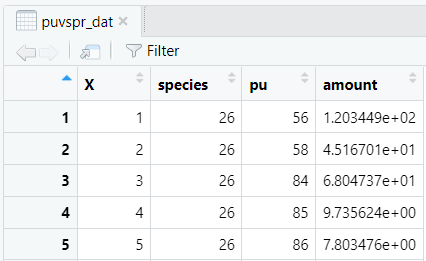
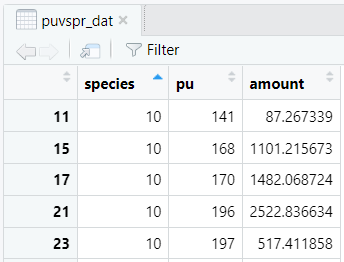
Updates to tutorials

diff --git a/docs/spatial_formulation_tutorial.md b/docs/spatial_formulation_tutorial.md
@@ -4,8 +4,6 @@ title: Tutorials
 permalink: /spatial_formulation
 ---
 
-<!-- Update template library from S3 with new target coverage chart !-->
-
 <style>
   .indentation {
     margin-left: 1rem;
@@ -50,7 +48,6 @@ d. When done, click <b>OK</b>.
 A new library has been created based on the selected template, and SyncroSim will have automatically opened and displayed it in the *Explorer* window. 
 
 <img align="center" style="padding: 13px" width="600" src="assets/images/screenshot8.png">
-<!-- When time allows, update so window shows fully (i.e., S icon and library name) !-->
 
 3\.	Double-click on the library name, **Spatial Formulation Example**, to open the library properties window. You may also right-click on the library name and select **Open** from the context menu.
 
@@ -86,8 +83,7 @@ Now, you will review the inputs for the **Initial problem** scenario, which sets
 
 10\.	Navigate to the **Pipeline** datasheet. Pipeline stages call on a transformer (*i.e.*, script) which takes the inputs from SyncroSim, runs a model, and returns the results to SyncroSim. Under the *Stage* column, note that a single pipeline stage is set, called *Base Prioritization*.
 
-<img align="center" style="padding: 13px" width="800" src="assets/images/screenshot14-2.png">
-<!-- Update this screenshot. It should show the Pipeline datasheet unher the Initial problem scenario properties, not the Definitions !-->
+<img align="center" style="padding: 13px" width="500" src="assets/images/screenshot14-2.png">
 
 11\. Navigate to the **Prioritizr** tab, and expand the **Base Prioritization > Data** nodes. 
 
@@ -184,12 +180,14 @@ Now, you will review the inputs for the **Initial problem** scenario, which sets
 The *Spatial Formulation Example* template library already contains the results for each scenario. Before exploring additional scenarios, you will view the main result for the **Initial problem** scenario. 
 
 1\. In the *Explorer* window, expand the **Initial Problem > Results** nodes to reveal the **Inital Problem** results scenario. This scenario contains the run results, timestamped, and a copy of all input parameters.
-<!-- Add screenshot !-->  
+
+<img align="center" style="padding: 13px" width="500" src="assets/images/screenshot21-3.png">
 
 2\. Collapse the scenario node by clicking on the downward facing arrow beside the scenario name.
 
 3\. Navigate to the **Maps** tab, and double click on the pre-configured **Solution** map. The *Solution* map shows in purple which planning units have been selected for prioritization given the input data and parameters. Although this solution helps meet the representation targets, it does not account for existing protected areas inside the study area.
-<!-- Add screenshot !-->
+
+<img align="center" style="padding: 13px" width="300" src="assets/images/screenshot21-4.png">
 
 <img align="center" style="padding: 13px" width="600" src="assets/images/screenshot21-2.png">
 
@@ -207,7 +205,7 @@ Now, you will review the additional scenarios and explore how they differ from t
 
 7\. Navigate to the **Prioritizr** tab, expand the **Base Prioritization > Data** node, and open the **Input Format** datasheet. Notice that this information cannot be edited (<i>i.e.</i>, greyed out) and the *"Inherit values from '[9] Initial Problem'"* checkbox in the bottom left corner is marked. This indicates that values within this datasheet are derived from the **Initial Problem** result scenario acting as a dependency.
 
-<img align="center" style="padding: 13px" width="400" src="assets/images/screenshot22-2.png">
+<img align="center" style="padding: 13px" width="500" src="assets/images/screenshot22-2.png">
 
 8\.  Navigate to the **Prioritizr** tab, expand the **Parameters > Advanced > Constraints** nodes, and open the **Locked In** datasheet to review the following inputs:
 
@@ -239,7 +237,7 @@ Yet, some places in the study area are not available for protection (*e.g.*, due
 
 13\.  Navigate to the **Prioritizr** tab, expand the **Base Prioritization > Data** nodes, and open the **Input Format** datasheet. Notice that this information cannot be edited (i.e., greyed out) and the *“Inherit values from ‘[10] Add locked in constraints’”* checkbox in the bottom left corner is marked. This indicates that values within this datasheet are derived from the **Add locked in constraints** result scenario acting as a dependency.
 
-<img align="center" style="padding: 13px" width="400" src="assets/images/screenshot24-2.png">
+<img align="center" style="padding: 13px" width="500" src="assets/images/screenshot24-2.png">
 
 14\.  Navigate to the **Prioritizr** tab, expand the **Parameters > Advanced > Constraints** nodes, and open the **Locked Out** datasheet to review the following inputs:
 
@@ -271,7 +269,7 @@ However, the planning units selected from the solution are fairly fragmented. Th
 
 19\.  Navigate to the **Prioritizr** tab, expand the **Base Prioritization > Data** nodes, and open the **Input Format** datasheet. Notice that this information cannot be edited (i.e., greyed out) and the *“Inherit values from ‘[11] Add locked in constraints’”* checkbox in the bottom left corner is marked. This indicates that values within this datasheet are derived from the **Add locked out constraints** result scenario acting as a dependency.
 
-<img align="center" style="padding: 13px" width="400" src="assets/images/screenshot26-2.png">
+<img align="center" style="padding: 13px" width="500" src="assets/images/screenshot26-2.png">
 
 20\.  Navigate to the **Prioritizr** tab, expand the **Parameters > Advanced > Penalties** nodes, and open the **Boundary** datasheet to review the following inputs:
 

diff --git a/docs/climate_refugia_prioritization_tutorial.md b/docs/climate_refugia_prioritization_tutorial.md
@@ -48,7 +48,6 @@ d. When done, click <b>OK</b>.
 A new library has been created based on the selected template, and SyncroSim will have automatically opened and displayed it in the *Explorer* window.
 
 <img align="center" style="padding: 13px" width="800" src="assets/images/screenshot55.png">
-<!-- When time allows, update to window shows fully (i.e., S icon and library name) !-->
 
 3\.	Double-click on the library name, **Climate Refugia Prioritization (Muskoka, Ontario)**, to open the library properties window. You may also right-click on the library name and select **Open** from the context menu.
 
@@ -208,12 +207,13 @@ The *Climate Refugia Prioritization (Muskoka, Ontario)* template library already
   b. Click on the <b>Solution</b> column to reorder the table's contents in decreasing order. <i>Solution</i> values equal to 1 represent the planning units that were selected by the solution.
 </div>
 
-<!-- Add screenshot of step 2b !-->
+<img align="center" style="padding: 13px" width="450" src="assets/images/screenshot70-2.png">
 
 3\. Close the scenario properties tab, and from the *Explorer* window, collapse the scenario node by clicking on the downward facing arrow beside the **Equal weight** scenario.
 
 4\. Navigate to the **Maps** tab, and double-click on the first pre-configured map: **Solution**. This map displays a visual representation of the tabular result you just inspected, showing the lakes that were selected in the solution to the conservation planning problem. 
-<!-- Add screenshot !-->
+
+<img align="center" style="padding: 13px" width="450" src="assets/images/screenshot70-3.png">
 
 5\. Close the results panels.
 
@@ -233,18 +233,17 @@ Now, you will review the additional scenarios, which are equal to the *Equal wei
   b. <i>Weights</i> – a data table outlining the weight of feature. From Step 1.c.ii, recall that features 1 and 2 represent the species presence features <i>LakeTrout</i> and <i>BrookTrout</i>. Here, both species presence variables have a weight of 1, and all lake property variables have a weight of 0. In essence, this means that in this scenario, only the species presence features will be considered in the prioritization process.
 </div>
 
-<!-- Add screenshot to illustrate csv !-->
+<img align="center" style="padding: 13px" width="300" src="assets/images/screenshot71-3.png">
 
 8\. In the *Explorer* window, select the pre-configured scenario **Lake properties weights** and double-click it to open its properties.
 
 9\. Navigate to the **Prioritizr** tab, expand the **Advanced** node, and open the **Feature weights** datasheet to note the input *Weights*. Here, both species presence variables have a weight of 0, and all lake property variables have a weight of 1. In essence, this means that in this scenario, only the lake property features will be considered in the prioritization process.
 
-<!-- Add screenshot to illustrate csv !-->
+<img align="center" style="padding: 13px" width="300" src="assets/images/screenshot71-4.png">
 
 10\. In the *Explorer* window, select scenarios **Species presence weight** and **Lake properties weights**, right-click and select **Add to Results** from the context menu.
 
-<img align="center" style="padding: 13px" width="500" src="assets/images/screenshot71-2.png">
-<!-- Update so it shows both scenarios at once !-->
+<img align="center" style="padding: 13px" width="500" src="assets/images/screenshot71-5.png">
 
 11\. Navigate to the **Charts** tab, and double-click on the first pre-configured chart: **Feature representation**. This chart shows the effect of the feature weights on the proportion of each feature secured within the solution. Note that feature representation for the species presences features (i.e., *BrookTrout* and *LakeTrout*) are generally higher under the *Species presence weight* scenario, and the lake property features (i.e., *EpiBent*, *MeanDepth* and *SurfArea*) are generally higher under the *Lake properties weights* scenario.
 

diff --git a/docs/tabular_formualtion_tutorial.md b/docs/tabular_formualtion_tutorial.md
@@ -48,7 +48,6 @@ d. When done, click <b>OK</b>.
 A new library has been created based on the selected template, and SyncroSim will have automatically opened and displayed it in the *Explorer* window.
 
 <img align="center" style="padding: 13px" width="800" src="assets/images/screenshot34.png">
-<!-- When time allows, update to window shows fully (i.e., S icon and library name) !-->
 
 3\.	Double-click on the library name, **Tabular Formulation Example**, to open the library properties window. You may also right-click on the library name and select **Open** from the context menu.
 
@@ -84,8 +83,7 @@ Now, you will review the inputs for the **Budget $500,000** scenario. In SyncroS
 
 10\.	Navigate to the **Pipeline** datasheet. Pipeline stages call on a transformer (*i.e.*, script) which takes the inputs from SyncroSim, runs a model, and returns the results to SyncroSim. Under the *Stage* column, note that a single pipeline stage is set called *Base Prioritization*.
 
-<img align="center" style="padding: 13px" width="800" src="assets/images/screenshot14-2.png">
-<!-- Update this screenshot. It should show the Pipeline datasheet under the Initial problem scenario properties, not the Definitions !-->
+<img align="center" style="padding: 13px" width="600" src="assets/images/screenshot14-2.png">
 
 11\. Navigate to the **Prioritizr** tab, and expand the **Base Prioritization > Data** nodes. 
 
@@ -103,7 +101,6 @@ Now, you will review the inputs for the **Budget $500,000** scenario. In SyncroS
 
 <div class=indentation>
   <div class=indentation>
-    <!-- Update screenshots from i-iii, as the first column should not show (X). And for iii, order species column so it starts on 10, corresponding to id=10 displayed on spec_dat !-->
     i. <i>Planning Units</i> – a data table of the different planning units in Washington (USA), where each planning unit is associated with a specific ID and cost value. In this example, there are 1,751 planning units.
     <img align="center" style="padding: 13px" width="500" src="assets/images/screenshot40-2.png">
     <br><br>
